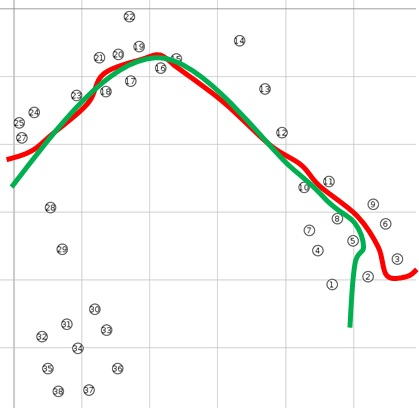
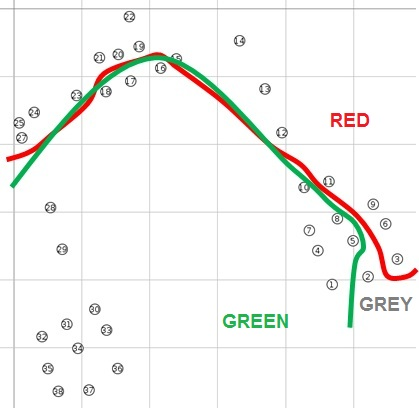
Submitted

diff --git a/auspdc.tex b/auspdc.tex
@@ -58,8 +58,8 @@ To deal with this problem, we have suggested a passive security mechanism---an I
 \label{sec:intro}
 
 Wireless sensors or motes are deployed in large numbers in uncontrolled environments, which makes them difficult to manage.
-Bug-fixes, altered sensing requirements and so on are generally managed using over the air (OTA) software update protocols like Deluge~\cite{1031506}.
-There are potential dangers associated with WSN OTA software update which can enable an attacker to steal sensitive information, log network events, even complete denial of service.
+Requirements such as bug-fixes, altered sensing, are generally managed using over the air (OTA) software update protocols like Deluge~\cite{1031506}.
+There are potential dangers associated with Wireless Sensor Network (WSN) OTA software update which can enable an attacker to steal sensitive information, log network events, even complete denial of service.
 While OTA update protocols make certain WSN management tasks easy, they also remain vulnerable to intrusion attempts.
 An adversary can take advantage of the resource constrained nature of the sensor motes and employ enough resources to break in through the limited protection the sensors are armed with.
 
@@ -71,20 +71,19 @@ Well developed cryptographic security mechanisms like WPS, PKM and likewise are 
 Moreover, the capability of computing devices that can computationally compromise the cryptographic protection in sensors grows at much faster rate.
 As a result, WSNs are more vulnerable to intrusion attempts and security threats from malicious attackers.
 In contrast, simple communication protocols and design make it easy to perform intrusion detection in WSN~\cite{quing09}.
-An Intrusion Detection System (IDS) can detect  break-in events, and raise alert.% following some predefined procedures.
+An Intrusion Detection System (IDS) can detect  break-in events, and raise alert. % following some predefined procedures. 
 It may be able to report the location and extent of break-in as well.
 
 
 The proposed IDS techniques vary greatly in their ideas and approaches.
 Misuse based  detection  techniques aim to detect known attacks by identifying undesired activities based on usage signature.
-However, they are ineffective against novel attacks.
-Additionally, they may wrongly identify legitimate activities as intrusion because of similarity with the signature.
+But they are ineffective against novel attacks and 
+may wrongly identify legitimate activities as intrusion because of similarity with the signature.
 Conversely, anomaly based IDS builds statistical signature based on defined normal activity.
-Unfortunately, a system may display previously unknown behaviour.
-For example: rare critical activities like earthquake or tsunami may raise false positive intrusion alert in sensors employed for other environmental monitoring.
+Unfortunately, a system may display previously unknown behaviour e.g.,rare critical activities like earthquake or tsunami may raise false positive intrusion alert in sensors employed for other environmental monitoring.
 On the other hand, an intrusion that masks its pattern under the hood of normal behaviour, for example: increased packet traffic during OTA update, would go undetected.
-In contrast, specification-based and reputation-based techniques rely on manual input for defining normal and anomalous behaviour with lesser reliance on automation.
-However, these techniques also have not been proved to be very effective because human interaction are more prone to errors and require more learning time~\cite{quing09}. 
+Specification-based and reputation-based techniques rely on manual input for defining normal and anomalous behaviour with lesser reliance on automation.
+However, these techniques also have not been proved to be very effective because human interaction are more prone to errors and require more learning time~\cite{quing09, 1593102, 1290173, Chen:2009:NMI:1516241.1516282}. 
 %Although approaches described above
 Despite innovative ideas, only few IDSs are able to address the security issues related to software update.
 
@@ -95,7 +94,7 @@ However, the mechanism of statistical treatment on information over a time perio
 
 In this paper, we present an IDS that can deal with intrusion in case of WSN software update.
 The algorithm requires a minor modification of the OTA update protocol to send back a datagram containing the update time, 
-which enables the IDS with a centralised view of network-wide knowledge to work out a  `Surprise Score' or `Intrusion Warning Score' (IWS)~\cite{aalam14, aalam15}.
+which enables the IDS with a centralised view of network-wide knowledge to work out a  `Surprise Score' or `Intrusion Warning Score' (IWS)~\cite{aalam15}.
 This work's contributions are two fold: 
 \begin{inparaenum}
 \item  The IDS identifies anomalies in software update patterns and scores them quantitatively;
@@ -112,19 +111,30 @@ Finally, we conclude our arguments in Section~\ref{sec:concl}.
 \label{sec:meth}
 
 %In this section, we provide a brief overview of the system design and describe the simulated evaluation environment. 
-\begin{figure}[t]
-    \centering
-    \includegraphics[width=0.35\textwidth]{IDS_fw}	
-    \caption{IDS Framework}
-    \label{fig:ids_fw}
-\end{figure}
+%\begin{figure}[t]
+%    \centering
+%    \includegraphics[width=0.35\textwidth]{IDS_fw}	
+%    \caption{IDS Framework}
+%    \label{fig:ids_fw}
+%\end{figure}
 
 \subsubsection*{System Design}
-The proposed IDS resides on an external system connected to the sink.
-The IDS framework components and chronology of the activities have been shown in Figure~\ref{fig:ids_fw} and~\ref{fig:ids_model} respectively.
-The IDS requires modification of Deluge to enable automatic reporting service in the mote by using datagram packets to carry latest update information to the sink.
-The packet travels to the sink using a synchronous acknowledgement mechanism in transport layer protocols~\cite{tep116}.
-After checking for correctness, the ITC then inserts the update time, mote ID and related information to the network database(NDB) in the IDS.
+%The IDS framework components has been shown in \ref{fig:ids_fw}.
+The IDS has three kinds of components --- 
+\begin{inparaenum}
+\item motes in radio network; 
+\item an IDS transport client (ITC) application in the sink; and
+\item an IDS application that runs on an system with higher resources, coordinates with ITC, remains physically attached to the sink, and houses a network database (NDB).
+\end{inparaenum}
+The chronology of the activities in the IDS are ---
+\begin{inparaenum}
+\item Deluge protocol initiates update;
+\item Deluge disseminates the new software image using a multi-hop relay mechanism; 
+\item nodes deliver their timing information to the sink using datagram packet;
+\item packets from the nodes rely on other nodes enroute to reach to the sink; and
+\item the ITC application in the sink delivers relevant information to the IDS for processing 
+\end{inparaenum}~\cite{tep116}.
+After checking for correctness, the ITC then inserts the update time, mote ID and related information to the network database (NDB) in the IDS.
 The IDS maintains an identifier to differentiate among different update times from different runs for the same mote.
 The authenticated initial software update runs are considered to be legitimate and the IDS uses these timing measurements to build signature.
 The time analyser module in the IDS inspects the NDB once an update activity has been detected and determines the changes from the signature and calculates IWS based on following utility function:
@@ -139,40 +149,27 @@ where,
 \item $\mathit{\mu_i}$---mean update time at mote $\mathit{i}$;  
 \item $\mathit{\sigma_i}$---standard deviation of update time at mote $\mathit{i}$. 
 \end{inparaenum}	
-\begin{figure}[btp]
-    \centering
-    \includegraphics[width=0.4\textwidth]{IDS}
-    \caption{IDS Modelling}
-    \label{fig:ids_model}
-\end{figure}
+%\begin{figure}[btp]
+%    \centering
+%    \includegraphics[width=0.4\textwidth]{IDS}
+%    \caption{IDS Modelling}
+%    \label{fig:ids_model}
+%\end{figure}
 
 
-\begin{table*}[t!]
-\centering
-\begin{tabular}{|l|*{20}{r|}r|}
-\hline
-\bd{Node ID}           & \bd{1} & \bd{2} & \bd{3} & \bd{4} & \bd{5} & \bd{6} & \bd{7} & \bd{8} & \bd{9} & \bd{10} & \bd{11} & \bd{12} & \bd{13} & \bd{14} & \bd{15} & \bd{16} & \bd{17} & \bd{18} & \bd{19} & \bd{20} \\
-%Mote ID           & 1 & 2 & 3 & 4 & 5  & 6 & 7 & 8 & 9 & 10 & 11 & 12 & 13 & 14 & 15  & 16 & 17 & 18 & 19 & 20 \\
-\hline
-$\mu$            & 0 &19 & 79& 143&197 &268&340&404&466&539 &594 &547 &476 &408 &326 & 268&210 & 152 & 83 & 19 \\
-$\sigma$		 & 0 & 2 & 11 & 12 & 13 & 25& 27&31 &30 & 38 & 37 & 49 & 37 & 35 & 25  & 24 & 23 & 24 & 16 & 3 \\
-\hline
-\end{tabular}
-\caption{Time statistics of motes in Double Ring topology (Data from outer circle not presented)}
-\label{tab:stat_ellip}
-\end{table*}
+
 
 \subsubsection*{Threat Model}
 The threat model is directed towards injection of unauthorised program images to infect the entire WSN.
-The IDS is expected to handle malicious node update, node compromise, node failure.
-We assume that an  attacker  can take over one or more nodes deployed in hostile environment, and can access the code in a compromised node, use cryptanalysis to represent a false identity without physically compromising a node.
+The IDS is expected to handle malicious node update, node compromise, and node failure.
+We assume that an  attacker  can take over one or more nodes deployed in hostile environment, access the code in a compromised node, and use cryptanalysis to represent a false identity without physically compromising a node.
 However, he has  no special  access to  the  network and is unable to modify the underlying protocols running in the uncompromised nodes.
-The paper assumes several settings like static WSN with a single  sink which is  protected from all kinds of attacks and cannot be compromised. All motes are assumed to have time synchronisation accurate to 1~$\mu$s, e.g., achieved using the TSMP~\cite{Pister08tsmp:time}.
+We assume several settings like static WSN with a single  sink which is  protected from all kinds of attacks and cannot be compromised. All motes are assumed to have time synchronisation accurate to 1~$\mu$s, e.g., achieved using the TSMP.%~\cite{Pister08tsmp:time}.
 \subsubsection*{Experiment Settings}
 \label{subsec:sim_env} 
 We used `Cooja'--a%\footnote{https://github.com/contiki-os/contiki/wiki/An-Introduction-to-Cooja}, a 
  network simulator in Contiki v2.7 running on Ubuntu 12.04, to simulate the software update pattern associated with Deluge protocol.
-The simulations evaluated the IDS in different WSN topologies and explored the effect of parameters like power level.
+The simulations evaluated the IDS in different WSN topologies and explored the effect of parameters such as power level.
 Evaluating the IDS on each of the topologies consisted of several test runs that  were of two kinds: 
 \begin{inparaenum}
 \item aimed at building signature consisting of 20 individual simulations initiated from the sink; and
@@ -198,34 +195,48 @@ The simulator continued until all the motes in the WSN were updated and the repo
 The update time of each mote were filtered out  and were sorted In ascending order of update time.
 
 \subsubsection*{Step 3} 
-Processed data e.g., mote update time from simulations initiated from the sink were statistically treated to build the signature consisting of mean and standard deviation .
+Processed data  were statistically treated to build the signature consisting of mean and standard deviation of  mote update time.
 Any change in variable parameters or in the topology setup would necessitate recalibrating the signature.
 
 \subsubsection*{Step 4} 
 Intrusion attacks at different nodes were replicated in simulations.
 The individual simulations runs were treated in a fashion  similar to~Step 1 and Step 2.
-The update time recorded at each of the motes is then analysed using Equation~\ref{eqn2}.
-The resulting values from this function present an approximation of the abnormality of the new update pattern. The higher the score, the more unusual the pattern is. 
+The update time recorded at each of the motes was then analysed using Equation~\ref{eqn2}.
+The resulting values from this function presented an approximation of the abnormality of the new update pattern. The higher the score, the more unusual the pattern was. 
 
 \subsubsection*{Step 5} 
 We classified IWS into Intrusion Warning Zones (IWZ) based on a scale built from maximum expected IWS for a topology to imply certain warning levels.
 The heuristics follows from statistical techniques and feasibility of finding easily identifiable boundary.
-The IDS marks an IWS up to 10\% from the scale as `GREEN' to indicate safe zone,
-10\%--30\% as `GREY' to indicate a situation where rules are not known and 
-above 30\% to be possible intrusion and is marked as `RED' zone.
+The IDS marks an IWS up to 10\% from the scale as GREEN to indicate safe zone,
+10\%--30\% as GREY to indicate a situation where rules are not known and 
+above 30\% to be possible intrusion and is marked as RED zone.
 IWZ depends on the assumed ability of the IDS having IWS knowledge of all possible intrusions in the network.
 Such knowledge can be built by replicating intrusion activity from the furthest few nodes.
 
 \section{Results and Evaluation}
 \label{sec:eval}
 
+\begin{table*}[t!]
+\centering
+\begin{tabular}{|l|*{19}{r|}r|}
+\hline
+\bd{Node ID}           & \bd{1} & \bd{2} & \bd{3} & \bd{4} & \bd{5} & \bd{6} & \bd{7} & \bd{8} & \bd{9} & \bd{10} & \bd{11} & \bd{12} & \bd{13} & \bd{14} & \bd{15} & \bd{16} & \bd{17} & \bd{18} & \bd{19} \\ % & \bd{20} \\
+%Mote ID           & 1 & 2 & 3 & 4 & 5  & 6 & 7 & 8 & 9 & 10 & 11 & 12 & 13 & 14 & 15  & 16 & 17 & 18 & 19 & 20 \\
+\hline
+$\mu$            & 0 &19 & 79& 143&197 &268&340&404&466&539 &594 &547 &476 &408 &326 & 268&210 & 152 & 83 \\ %& 19 \\
+$\sigma$		 & 0 & 2 & 11 & 12 & 13 & 25& 27&31 &30 & 38 & 37 & 49 & 37 & 35 & 25  & 24 & 23 & 24 & 16 \\ %& 3 \\
+\hline
+\end{tabular}
+\caption{Time statistics of motes in Double Ring topology (partial data presented)}
+\label{tab:stat_ellip}
+\end{table*}
 
-In this section, we presents the results, their interpretation and evaluate the contribution.
-While discussing the performance and effects of the proposed IDS in different topologies are useful, discussing any of the topologies presents fair idea about the outcomes from the others and mentioning the cases when the outcome was considered  contrary to the expectations.
+%In this section, we presents the results, their interpretation and evaluate the contribution.
+%While discussing the performance and effects of the proposed IDS in different topologies are useful, discussing any of the topologies presents fair idea about the outcomes from the others and mentioning the cases when the outcome was considered  contrary to the expectations.
 
-
-We shall concentrate our discussion on results and findings of a single, double ring topology only.
-The topology has 46 nodes in two equicentric circles as shown  in Figure~\ref{fig:elliptopo}.
+While evaluating all experimented topologies is useful, the Double Ring topology is presented and  exceptions in other topologies are mentioned.
+%We shall concentrate our discussion on results and findings of a single, double ring topology only.
+The topology has 46 nodes in two equicentric circles (Figure~\ref{fig:elliptopo}).
 The circles are within each others transmission range.
 Table~\ref{tab:stat_ellip} shows the signature data: all times are in seconds.
 %The numbers indicate the measurements in time unit of seconds.
@@ -239,7 +250,7 @@ motes closer to the sink have lower mean which follows a steep rise with the inc
 
 \begin{figure}[t]
     \centering
-        \includegraphics[width=0.7\linewidth]{DoubleRingZ}
+        \includegraphics[width=.8\linewidth]{DoubleRingZ}
         \caption{IWS and placement of nodes in Double Ring Topology}
         \label{fig:elliptopo} 
     \end{figure}
@@ -259,12 +270,12 @@ For example, in the double ring topology, the circles are represented by the bim
 The main contribution of this research comes from the ability to report anomaly in quantitative term like the IWS.
 For example:  a regular legitimate update, initiated from node ID 1, resulted into a IWS of 0.8.
 The result matched the theoretical expectation of very low IWS.
-In addition to this, for intrusion scenario simulated from the nodes near the sink, the IWS was still fairly low, e.g. at mote ID 2, 3, 20--23, and 46. 
+In addition to this, for intrusion scenario simulated from the nodes near the sink, the IWS was still fairly low (e.g. at mote ID 2, 3, 20--23, and 46). 
 Because IWS of the motes close to the sink are likely to be very low, it is quite difficult to conclude if such an IWS indicate an intrusion.
 This area is marked as GREEN zone, and need to be adequately secured with additional physical security as intrusion in these motes are not detectable by the IDS.
-For other motes e.g., mote ID 4, 5, 24--26, 18, 19, 44 and 45, the IWS is neither too low, nor too high to be considered intrusion. The area is marked as GREY to indicate requirement of additional monitoring to aid false positive cases.
-However, for the distant motes--marked in RED zone, the IWS is quite high and the IDS can conclude such cases as intrusion, e.g. IWS of 1268 for mote ID 34, 885 for mote ID 31,and likewise indicate intrusion.
-Accordingly, the Figure~\ref{fig:elliptopo} and~\ref{fig:ellipgraph} shows the region in GREEN, GREY and RED zones.%
+For other motes, such as mote ID 4, 5, 24--26, 18, 19, 44 and 45, the IWS is neither too low, nor too high to be considered intrusion. The area is marked as GREY to indicate requirement of additional monitoring to aid false positive cases.
+However, for the distant motes--marked in RED zone, the IWS is quite high and the IDS can conclude such cases as intrusion, such as IWS of 1268 for mote ID 34, 885 for mote ID 31,and likewise indicate intrusion.
+Accordingly, the Figure~\ref{fig:elliptopo} and~\ref{fig:ellipgraph} shows the region boundaries and thresholds of GREEN, GREY and RED zones.%
 
 \begin{table*}[t]
 \centering
@@ -294,7 +305,7 @@ Power 100\%	   & 512 & 529 & 512 & 512 & 512  & 512 & 476 & 478 & 476 & 459 & 45
 Power 50\%	  &31 & 59&254& 31& 31 &283& 32& 32& 254& 31 &253 & ... & 31  & 30 & 31 & 31 & 30 & 0 \\
 \hline
 \end{tabular}
-\caption{IWS from intrusion at motes in Owheo WSN. Further explained in Figure~\ref{fig:owheo}}
+\caption{IWS from intrusion at motes in Owheo WSN. Further explained in Figure~\ref{subfig:owheo_full} and~\ref{subfig:owheo_half} }
 \label{tab:owheo}
 \end{table*}
 
@@ -308,7 +319,7 @@ Node 14 did not report any time because of three reasons:
 \item it acted as a sink, the protocol did not require it to notify update time; and 
 \item it is the compromised node whose protocol is expected to be altered.
 \end{inparaenum}
-From this, the IDS can conclude that node 14 was the intrusion point.
+From the timing data, the IDS can conclude that node 14 was the intrusion point.
 The extent of intrusion, as specified earlier, is found out from reported version information.
 
 
@@ -317,10 +328,10 @@ The idea of zoning associated with IWS is useful in designing secure WSN deploym
 A network is more secure when it has a smaller GREEN and GREY zone, which implies the requirement of lesser resources to impenetrably secure less number of motes.
 %Similarly, a smaller or non-existent GREY zone would require lesser monitoring measures.
 %Such a secure WSN can be designed by varying the parameters like power level or even by physically relocating some motes.
-Obtaining real world scenario by varying different sets of design parameters e.g., power levels, position of nodes, etc is an impossible task even for a small WSN.
+Obtaining real world scenario by varying different sets of design parameters such as power levels or position of nodes is an impossible task even for a small WSN.
 The simulation environment used to design IDS can be effectively utilised to obtain expected IWS score range for different sets of parameters and then rank the sets based on how effectively they produce IWS values. 
-However, any change in topology or design parameters like power level will require recalibrating the IDS. 
-For example, we have simulated the IWS scenario of the `Owheo Sensor Network'.
+However, any change in topology or design parameters, like power level, will require recalibrating the IDS. 
+For example, we have simulated the IWS scenario of the `Owheo Sensor Network' 
 at two different power levels in our quest to design a secure WSN using the IDS.
 
 Table~\ref{tab:owheo} shows the IWS at different motes of Owheo WSN as intrusion points at 100\% and 50\% power levels. 
@@ -336,24 +347,40 @@ Comparing the scenarios, it can clearly be established that deployment at 50\% p
 \item there are fewer nodes in these zones. 
 \end{inparaenum}
 
-\begin{figure*}[t!]
-    \centering
-    \begin{subfigure}[b]{0.4\textwidth}
-        \centering
-        \includegraphics[height=2.5in]{Owheo_full}
+\begin{figure}[tbph!]
+	\centering
+        \includegraphics[width=.9\linewidth]{Owheo_full}
         \caption{Zone boundary at Full Power Level}
         \label{subfig:owheo_full}
-    \end{subfigure}%
-    ~ 
-    \begin{subfigure}[b]{0.4\textwidth}
-        \centering
-        \includegraphics[height=2.5in]{Owheo_half}
+\end{figure}
+
+\begin{figure}[tbph!]
+	\centering
+        \includegraphics[width=.9\linewidth]{Owheo_half}
         \caption{Zone boundary at Half Power Level}
         \label{subfig:owheo_half}
-    \end{subfigure}
-    \caption{Comparison of Zone boundary for power level variations in `Owheo Sensor Network'. IWS of the motes at the power levels are shown in Table~\ref{tab:owheo}}
-\label{fig:owheo}
-\end{figure*}
+\end{figure}
+
+
+
+%\begin{figure*}[t!]
+%    \centering
+%    \begin{subfigure}[b]{0.5\textwidth}
+%        \centering
+%        \includegraphics[height=2.5in]{Owheo_full}
+%        \caption{Zone boundary at Full Power Level}
+%        \label{subfig:owheo_full}
+%    \end{subfigure}%
+%    ~ 
+%    \begin{subfigure}[b]{0.5\textwidth}
+%        \centering
+%        \includegraphics[height=2.5in]{Owheo_half}
+%        \caption{Zone boundary at Half Power Level}
+%        \label{subfig:owheo_half}
+%    \end{subfigure}
+%    \caption{Comparison of Zone boundary for power level variations in `Owheo Sensor Network'. IWS of the motes at the power levels are shown in Table~\ref{tab:owheo}}
+%\label{fig:owheo}
+%\end{figure*}
 
 
 \section{Conclusion}
@@ -378,7 +405,7 @@ The other important contribution is related to designing secure WSN using IWZ.
 %The IDS can be used to simulate all possible combinations of parameters and  to rank the sets based on intrusion vulnerability.
 %For example, a WSN with known small insecure zone is much easier to protect than a larger zone.
 %The ranking mechanism is useful in such scenario.
-Besides, the IDS also can indicate some other kinds of anomalies such as node relocation, node repudiation, node compromise and so on.
+Besides, the IDS also can indicate some other kinds of anomalies such as node relocation, node repudiation or node compromise.
 
 The IDS has several limitations. 
 It assumes some special cases like a static WSN with a single sink.
@@ -386,10 +413,10 @@ It also assumes that network-wide information will not be forged. %to have netwo
 These assumptions may not hold in a real WSN.
 In addition to this, assumptions about the attacker are: the attacker can employ enough resources to break in the cryptographic protections in sensors; however, he is not able to modify the protocols in an uncompromised sensor.
 The IDS has an obvious functional limitation.
-It cannot identify an intrusion in certain scenarios e.g., 
+It cannot identify an intrusion in certain scenarios such as 
 %For example, when an intrusion takes place 
 in close vicinity of the sink.%, this IWS may not always be sufficiently large to be identified as an intrusion.
-The other limitation stems from the fact that the results are based on simulated data and needs support from real world implementation.
+The other limitation stems from the fact that the results are based on simulated data and need support from real world implementation.
 In future,  the IDS can be implemented to examine real world performance including cases of multiple sinks with mobile sensors.
 
 
